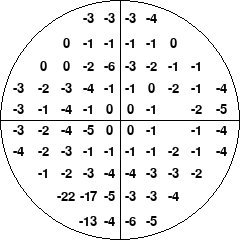
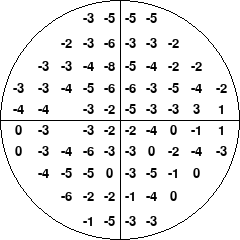
adiciona novos arquivos de exame e atualiza configuração do exame

diff --git a/campimetria/pages/TelaResultadoFullThreshold.py b/campimetria/pages/TelaResultadoFullThreshold.py
@@ -488,6 +488,22 @@ class ResultadoFullthreshold:
                     from idade_90 import lista_valores
 
             return lista_valores
+        def espelhar_vetor(vetor):
+            lista_atenuacao = []
+            for cordenada,atenuacao in vetor.items():
+                lista_atenuacao.append(atenuacao)
+            print(lista_atenuacao)
+            tamanhos_linhas = [4, 6, 8, 10, 10, 10, 10, 8, 6, 4]
+            espelhado = []
+            inicio = 0
+
+            for tamanho in tamanhos_linhas:
+                linha = lista_atenuacao[inicio:inicio + tamanho]
+                espelhado.extend(linha[::-1])  # faz o espelhamento (slice reverso)
+                inicio += tamanho
+            for (cordenada,atenuacao),atenuacao_espelhada in zip(vetor.items(),espelhado):
+                vetor[cordenada] = atenuacao_espelhada
+            return vetor
 
         def desenha_curva_bebie(desvio_total, desvio_paciente):
             tolerancia_positiva = [valor - 3 for valor in desvio_total]
@@ -666,11 +682,11 @@ class ResultadoFullthreshold:
             DadosExame.psd = psd
             
             
-        def calcula_desvio(matriz_desvio_total,curva_paciente):
+        def calcula_desvio(matriz_desvio_total):
             setimo_valor = 0
             curva_paciente_filtrada = [ ponto.atenuacao for ponto in matriz_desvio_total]
             curva_paciente_filtrada.sort(reverse=True)
-            setimo_valor = curva_paciente_filtrada[6]
+            setimo_valor = curva_paciente_filtrada[9]
             print(curva_paciente_filtrada)
             for ponto in matriz_desvio_total:
                 ponto_desvio_padrao = Ponto(ponto.xg,ponto.yg,3,(0,0,0),200)                              
@@ -683,6 +699,8 @@ class ResultadoFullthreshold:
             
 
         lista_base_atenuacao = verifica_faixa_etaria(DadosExame.faixa_etaria)
+        if DadosExame.olho == Constantes.olho_esquerdo:
+            lista_base_atenuacao = espelhar_vetor(lista_base_atenuacao)
         
         curva_base = [
             atenuacao for cordenada, atenuacao in lista_base_atenuacao.items()
@@ -743,7 +761,7 @@ class ResultadoFullthreshold:
             ponto.x -= 120
             ponto.y -= 15
             
-        calcula_desvio(matriz_desvio_total,curva_paciente)
+        calcula_desvio(matriz_desvio_total)
         calcula_MD()
         calcula_PSD(matriz_desvio_total)
         desenha_mapa_desvio("desvio_total", matriz_desvio_total)        
@@ -753,6 +771,8 @@ class ResultadoFullthreshold:
         desvio_paciente.sort(reverse=False)
         desvio_total[-2:] = desvio_total[-4:-2]
         desvio_paciente[:1] = desvio_paciente[1:2]
+        desvio_paciente[:2] = desvio_paciente[2:4]
+       
         desenha_curva_bebie(desvio_total, desvio_paciente)
         
         
@@ -1215,10 +1235,10 @@ if __name__ == "__main__":
     from cordenadas_30 import cordenadas_30
     from converte_atenuacao_txt import read_file_to_list
     
-    atenuacoes = read_file_to_list(os.path.abspath(os.path.join(os.path.dirname(__file__), "..", "atenuacao_teste", "exame.txt")))
+    atenuacoes = read_file_to_list(os.path.abspath(os.path.join(os.path.dirname(__file__), "..", "atenuacao_teste", "exame2.txt")),7)
 
     DadosExame.exame_selecionado = Constantes.fullthreshold
-    DadosExame.olho = Constantes.olho_direito
+    DadosExame.olho = Constantes.olho_esquerdo
 
     pygame.init()
     pygame.display.set_mode((0, 0), pygame.FULLSCREEN)

diff --git a/campimetria/constants/base/idade_61_70.py b/campimetria/constants/base/idade_61_70.py
@@ -1,4 +1,81 @@
-base = ['23', '23', '23', '24', '23', '24', '24', '24', '24', '23', '23', '23', '25', '26', '26', '25', '24', '24', '23', '25', '26', '27', '27', '27', '26', '25', '24', '24', '23', '24', '27', '27', '28', '28', '27', '0', '25', '25', '23', '25', '27', '28', '28', '28', '27', '0', '24', '24', '24', '25', '26', '27', '27', '27', '27', '25', '24', '24', '24', '25', '26', '27', '27', '26', '26', '25', '24', '25', '25', '26', '26', '27', '24', '24', '26', '25']
+base = [
+    "23",
+    "23",
+    "23",
+    "24",
+    "23",
+    "24",
+    "24",
+    "24",
+    "24",
+    "23",
+    "23",
+    "23",
+    "25",
+    "26",
+    "26",
+    "25",
+    "24",
+    "24",
+    "23",
+    "25",
+    "26",
+    "27",
+    "27",
+    "27",
+    "26",
+    "25",
+    "24",
+    "24",
+    "23",
+    "24",
+    "27",
+    "27",
+    "28",
+    "28",
+    "27",
+    "0",
+    "25",
+    "25",
+    "23",
+    "25",
+    "27",
+    "28",
+    "28",
+    "28",
+    "27",
+    "0",
+    "24",
+    "24",
+    "24",
+    "25",
+    "26",
+    "27",
+    "27",
+    "27",
+    "27",
+    "25",
+    "24",
+    "24",
+    "24",
+    "25",
+    "26",
+    "27",
+    "27",
+    "26",
+    "26",
+    "25",
+    "24",
+    "25",
+    "25",
+    "26",
+    "26",
+    "27",
+    "24",
+    "24",
+    "26",
+    "25",
+]
 keys = [
     (-9, 27), (-3, 27), (3, 27), (9, 27), (-15, 21), (-9, 21), (-3, 21), (3, 21), (9, 21), (15, 21),
     (-21, 15), (-15, 15), (-9, 15), (-3, 15), (3, 15), (9, 15), (15, 15), (21, 15), (-27, 9), (-21, 9),
